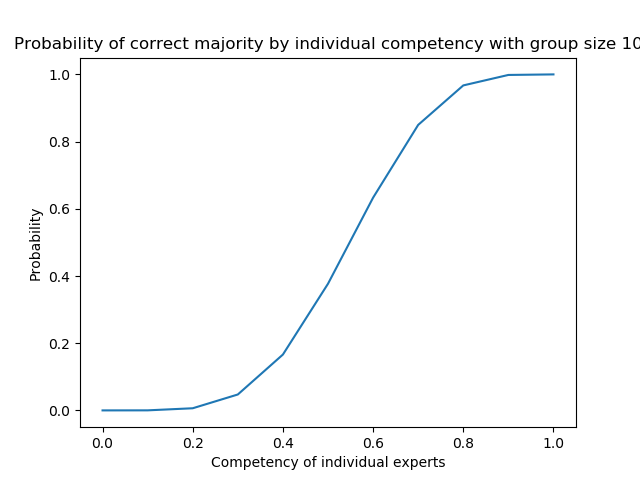
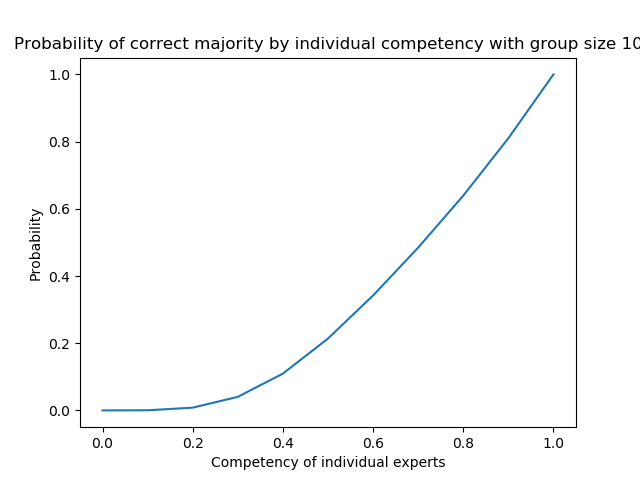
report and stuff

diff --git a/majority.py b/majority.py
@@ -14,9 +14,9 @@ def pascaline(n):
 #Returns the probability that the majority of the experts are correct
 def probability(c,p):
     output = 0
-    pascal = pascaline(c + 1)
+    pascal = pascaline(c - 1)
     if (c % 2 == 0):
-        limit = int(c/2)
+        limit = int(c/2 + 1)
     else:
         limit = int(c/2 + 0.5)
     for i in range(0,limit):
